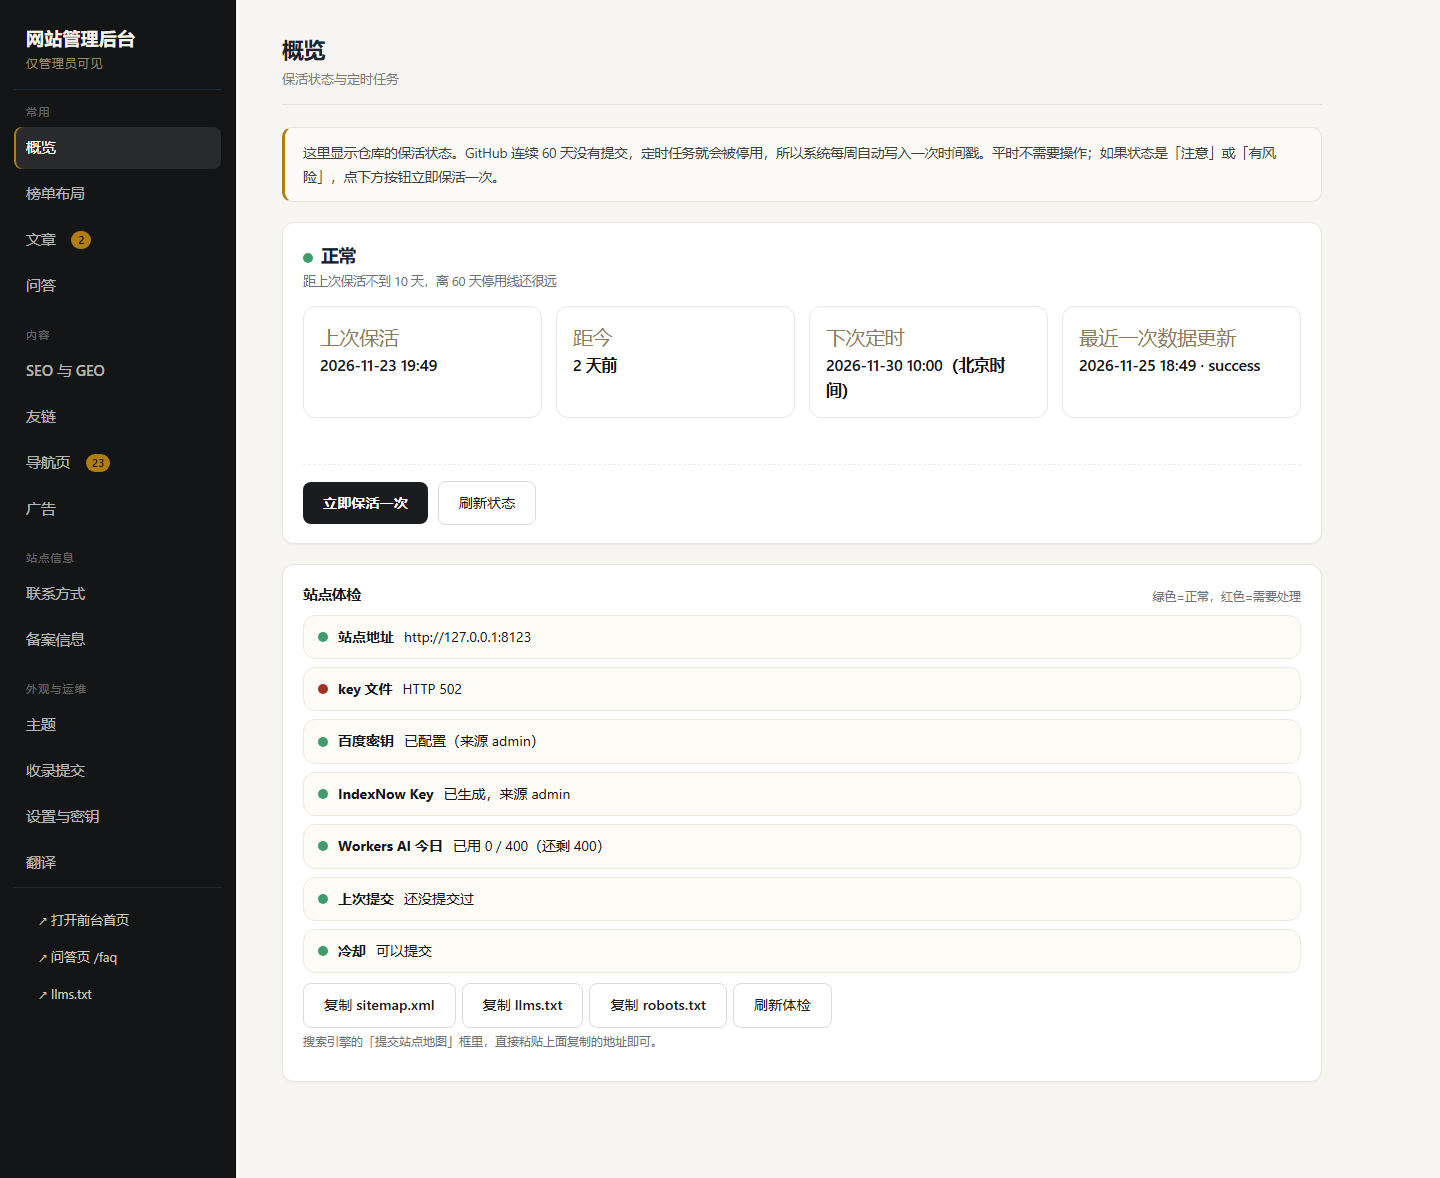
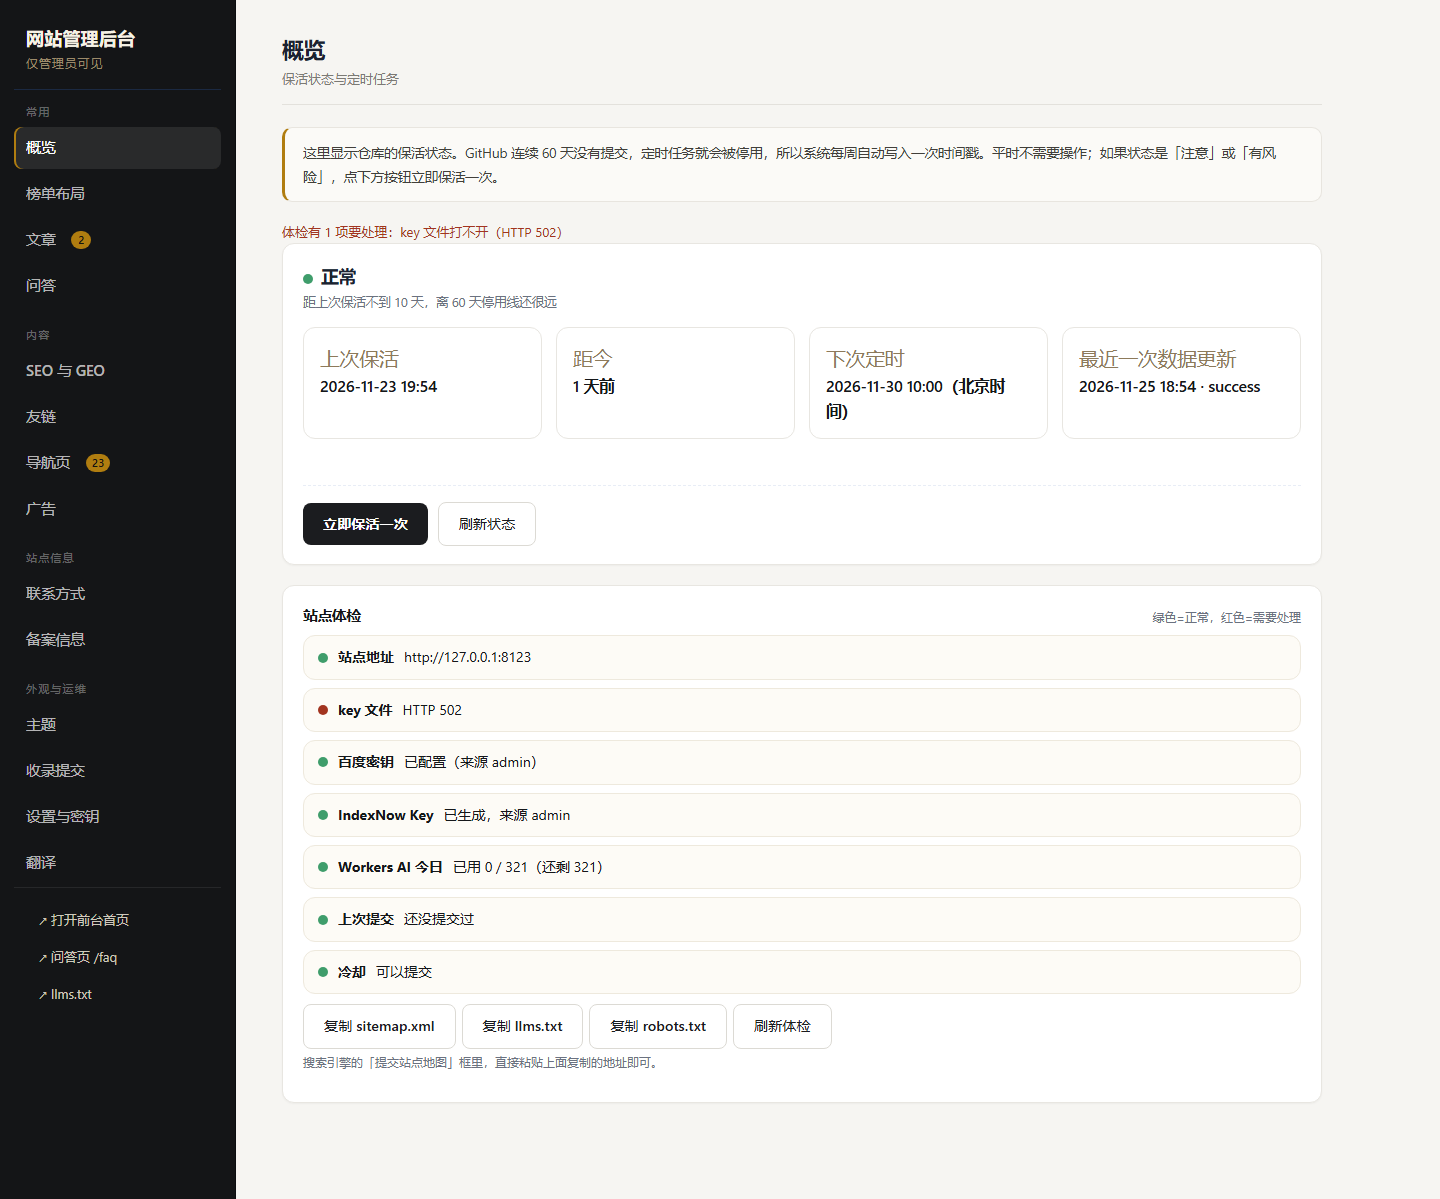
feat: 概览页体检红条 + 闭环脚本补体检接口断言；ASSET_V/CACHE v63

diff --git a/worker.js b/worker.js
@@ -1410,7 +1410,7 @@ async function injectFaqLd(env, html) {
 
 // 静态资源版本：HTML 里的 /js/*.js 都会被加上 ?v=<这里>，于是能给浏览器一年 immutable；
 // 改了前端就把它 +1（不然用户浏览器会抱着一周的旧 bundle，界面上去点了没反应）
-const ASSET_V = 'v62';
+const ASSET_V = 'v63';
 
 function emptyNav() {
   return { updatedAt: '', groups: [] };
@@ -3254,6 +3254,7 @@ tr:hover td{background:#fcfbf8}
     <section class="pane" id="pane-overview">
       <div class="bar"><div><h1>概览</h1><div class="sub">保活状态与定时任务</div></div></div>
       <div class="intro">这里显示仓库的保活状态。GitHub 连续 60 天没有提交，定时任务就会被停用，所以系统每周自动写入一次时间戳。平时不需要操作；如果状态是「注意」或「有风险」，点下方按钮立即保活一次。</div>
+      <div id="healthBar" class="err" hidden></div>
       <div class="card">
         <h2><span class="dot" id="stDot"></span><span id="stState">加载中…</span></h2>
         <p class="desc" id="stNote"></p>
@@ -3921,6 +3922,16 @@ tr:hover td{background:#fcfbf8}
       }
       rows.push(healthRow('上次提交', true, (sub && sub.lastRun && sub.lastRun.at) ? new Date(sub.lastRun.at).toLocaleString() : '还没提交过'));
       rows.push(healthRow('冷却', !(sub && sub.cooldown && sub.cooldown.seconds > 0), (sub && sub.cooldown && sub.cooldown.seconds > 0) ? '还要等 ' + sub.cooldown.seconds + ' 秒' : '可以提交'));
+      var bad = [];
+      if (sub && sub.keyFileOk === false) bad.push('key 文件打不开（' + String((sub && sub.keyFileNote) || '').slice(0, 60) + '）');
+      if (sub && sub.keyFileOk && sub.keyFileMatch === false) bad.push('key 文件内容与后台不一致，IndexNow 会被 422 拒绝');
+      if (sub && !sub.baiduToken) bad.push('没配百度准入密钥，百度推送会被跳过');
+      if (ai && !ai.unlimited && typeof ai.used === 'number' && ai.used >= ai.cap) bad.push('Workers AI 今日额度已用完，翻译会退回 MyMemory');
+      var bar = $('healthBar');
+      if (bar) {
+        if (bad.length) { bar.hidden = false; bar.textContent = '体检有 ' + bad.length + ' 项要处理：' + bad.join('；'); }
+        else { bar.hidden = true; bar.textContent = ''; }
+      }
       box.innerHTML = rows.join('');
     }).catch(function () {
       box.innerHTML = '<div class="empty">体检数据没取到，点「刷新体检」再试。</div>';

diff --git a/sw.js b/sw.js
@@ -1,5 +1,5 @@
 /* Service Worker：缓存页面外壳（HTML/JS/图标），让离线也能打开；GitHub API 不缓存，由页面自己的 localStorage 管理 */
-const CACHE = 'ghrank-shell-v62';
+const CACHE = 'ghrank-shell-v63';
 const SHELL = ['./', 'index.html', 'js/bundle.js', 'js/md.js', 'manifest.json', 'icon.svg'];
 // 只预缓存 meta（约 2KB）。榜单数据按 range 分文件、由页面按需加载，不再在安装时白下几�?KB
 const DATA = 'data/repos-meta.js';

diff --git a/docs/优化建议.md b/docs/优化建议.md
@@ -545,3 +545,12 @@ node scripts/check-worker.mjs      # 本地模拟 Workers 运行时，30+ 项断
 两个坑：
 1. **模板字面量里不能写带反斜杠的正则**：我写了 `sm.replace(/\/sitemap\.xml$/, '')`，在 `ADMIN_PAGE` 模板里 `\/` 被吃掉，输出变成 `//sitemap.xml$/` → 注释开头，整段后台脚本 `SyntaxError: missing ) after argument list`，登录框点了没反应。改成 `indexOf/slice` 的纯字符串写法。
 2. 排错顺序：先 `node scripts/check-admin-script.mjs`（能定位到第几段），再 CDP 抓 `Runtime.exceptionThrown`——这次就是靠这两步 5 分钟定位的。
+
+## §34 第 10 轮：体检红条 + 闭环脚本补体检接口
+
+| 项 | 改法 | 验证 |
+| --- | --- | --- |
+| 体检只有卡片、异常要靠人自己盯 | 概览页顶部加 `#healthBar`（`.err` 样式），`loadHealth()` 汇总成一句话：key 文件打不开 / key 与后台不一致 / 百度密钥没配 / AI 额度用完；正常时隐藏 | 截图 `docs/shots/admin-overview.png`（本地 dev 的 key 文件是 502 假失败，红条正好演示）；`check-worker` PASS 一条 |
+| 体检接口没人守 | `check-frontend-closure.mjs` 加第 12 组：`/api/submit` 的 `status.keyFileOk` 是布尔、`/api/ai-usage` 的 `used/cap` 是数字、`/admin` 有 `id="healthBar"` | `node scripts/check-frontend-closure.mjs` → 全部通过（已还原数据） |
+
+语义提醒：本地 dev-server 对 loopback 的 key 文件探测恒 502（桩不发外网），所以本地红条一定出现，线上应为绿。
